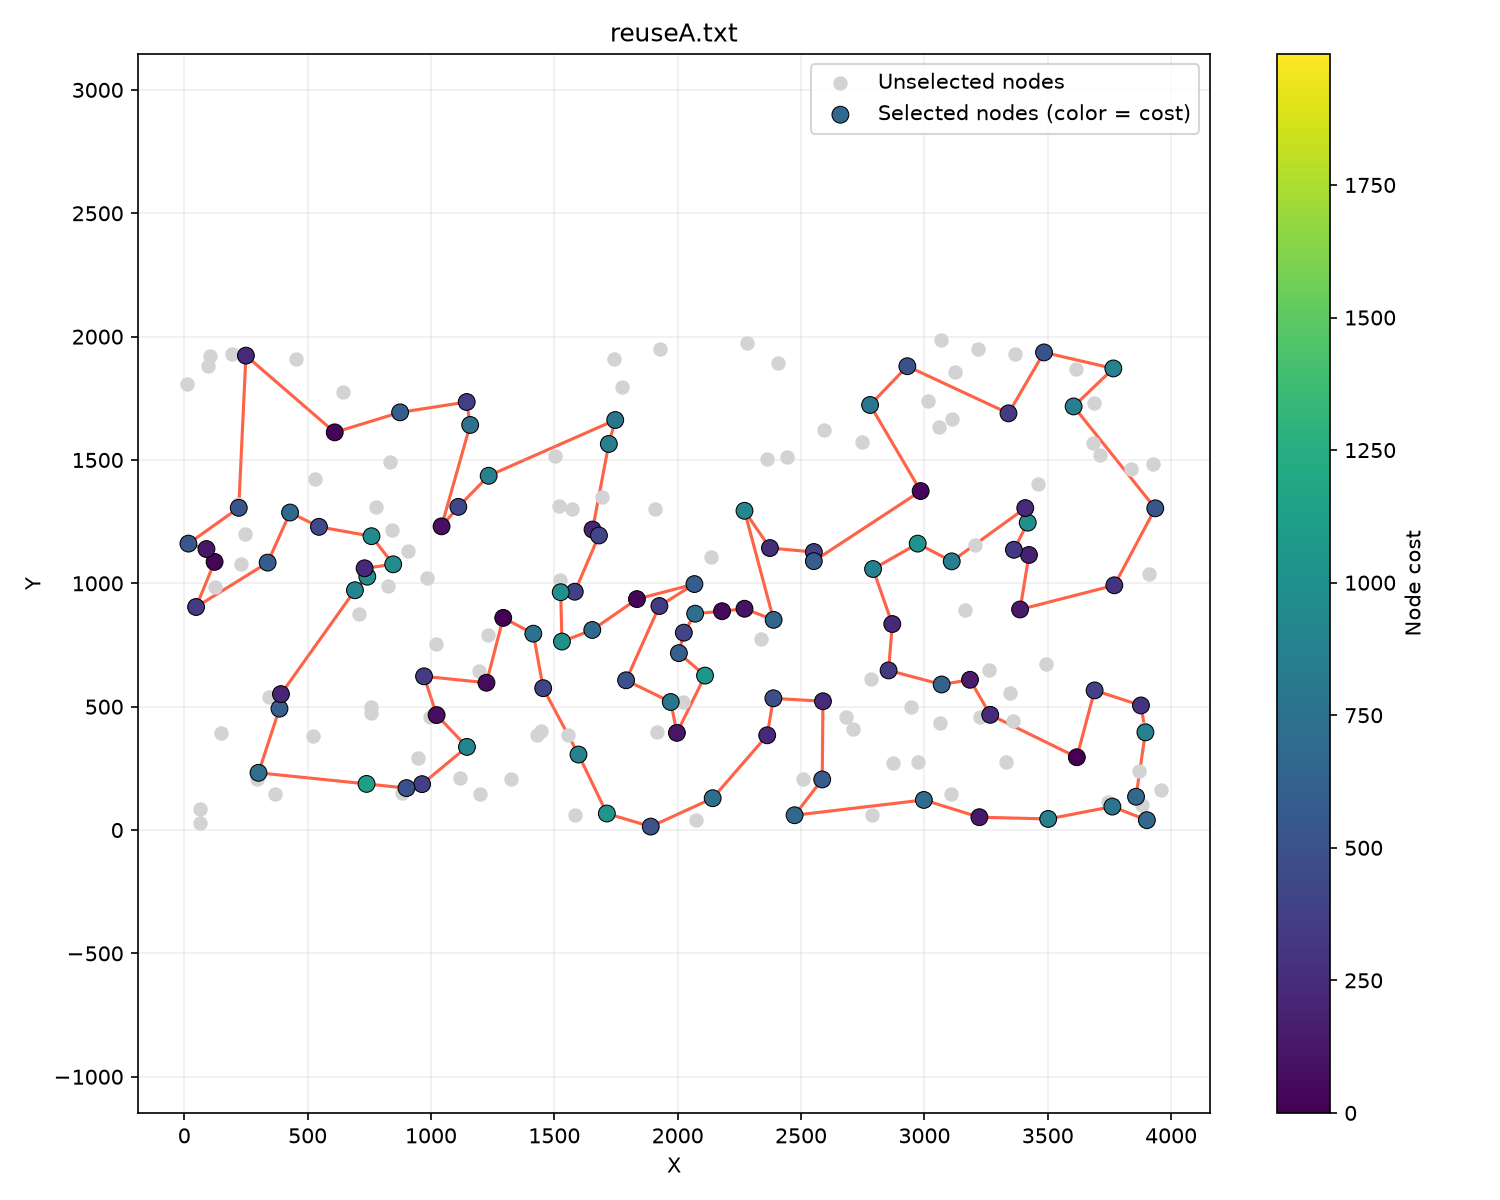
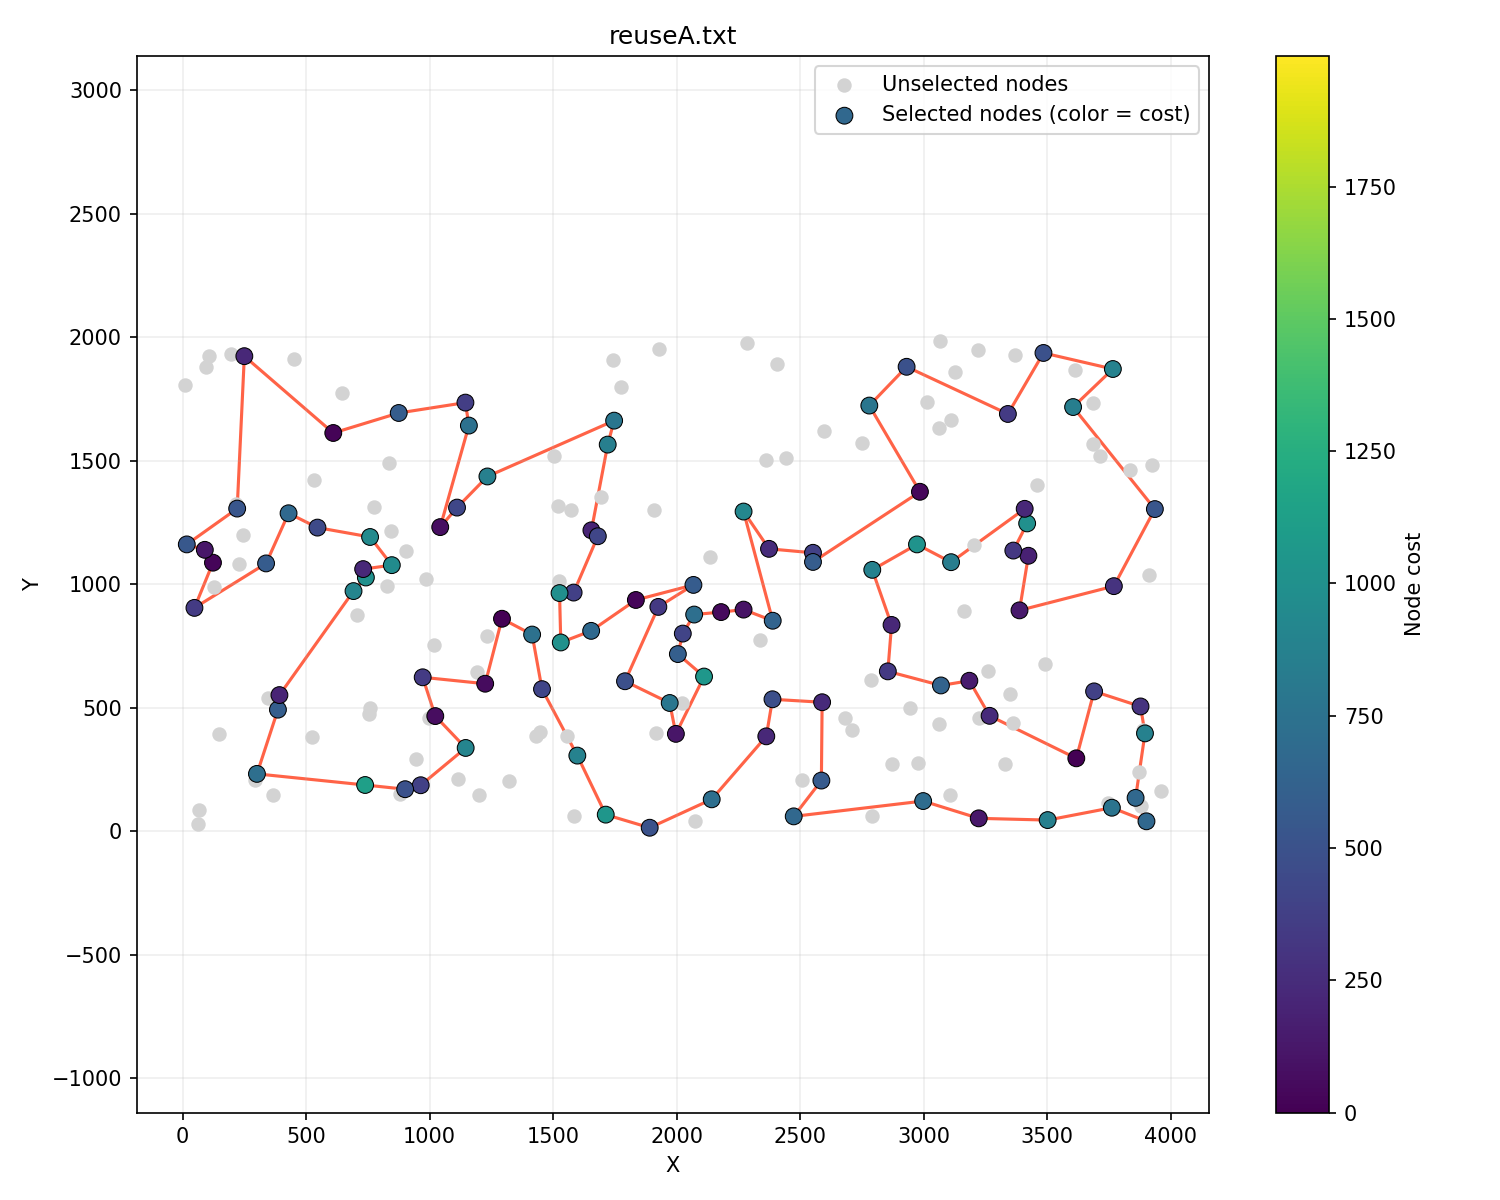
Fix 5_reuse, start 6

diff --git a/6_MSLS_ILS/main.cpp b/6_MSLS_ILS/main.cpp
@@ -1,0 +1,262 @@
+#include "../common/utils.h"
+
+// refer to slide 114 of the presentation
+int32_t edgeSwapDelta(std::vector<std::vector<int32_t>>& matrix, std::vector<int32_t>& sol, size_t i, size_t j, size_t k, size_t l) {
+	int32_t delta = 0;
+	// i -> j, k -> l turns into i -> k, j -> l
+	delta -= matrix[i][j];
+	delta -= matrix[k][l];
+	delta += matrix[i][k];
+	delta += matrix[j][l];
+	return delta;
+}
+
+int32_t interNodeSwapDelta(std::vector<std::vector<int32_t>>& matrix, std::vector<int32_t>& sol, std::vector<Node>& nodes, std::array<int32_t, 200>& solLookup, int32_t _i, int32_t j) {
+	int32_t delta = 0;
+	delta -= nodes[_i].cost;
+	delta += nodes[j].cost;
+
+	// converting global matrix idx into sol's idx
+	int32_t i = solLookup[_i];
+
+	// too many weird edge cases so i'm calculating the indices this way instead of explicit formulas in a thousand elseif blocks
+	int32_t beforeI = (i == 0) ? sol.size() - 1 : i - 1;
+	int32_t afterI = (i == sol.size() - 1) ? 0 : i + 1;
+	int32_t x = sol[i];
+	delta -= matrix[sol[beforeI]][x];
+	delta -= matrix[x][sol[afterI]];
+	delta += matrix[sol[beforeI]][j];
+	delta += matrix[j][sol[afterI]];
+	return delta;
+}
+
+struct Move {
+	bool isEdge;
+	// if edge then all 4 indices are just i, j, k, l
+	// if node then i = original node, j = new node, k = original predecessor, l = original successor (if neighbours change then delta can become outdated)
+	std::array<int32_t, 4> swap{};
+	int32_t delta;
+
+	bool operator<(const Move& m) const {
+		return delta > m.delta;
+	}
+
+	Move(std::vector<std::vector<int32_t>>& matrix, std::vector<int32_t>& sol, std::vector<Node>& nodes, std::array<int32_t, 200>& solLookup, int32_t i, int32_t j) {
+		int32_t iIdx = solLookup[i];
+		int32_t beforeI = (iIdx == 0) ? sol.size() - 1 : iIdx - 1;
+		int32_t afterI = (iIdx == sol.size() - 1) ? 0 : iIdx + 1;
+		swap = {i, j, sol[beforeI], sol[afterI]};
+		delta = interNodeSwapDelta(matrix, sol, nodes, solLookup, i, j);
+		isEdge = false;
+	}
+
+	Move(std::vector<std::vector<int32_t>>& matrix, std::vector<int32_t>& sol, int32_t i, int32_t j, int32_t k, int32_t l) {
+		swap = { i, j, k, l };
+		delta = edgeSwapDelta(matrix, sol, i, j, k, l);
+		isEdge = true;
+	}
+};
+
+// 1 if original, -1 if reversed, 0 if non-existent
+int32_t edgeState(std::vector<int32_t>& sol, std::array<int32_t, 200>& solLookup, int32_t i, int32_t j) {
+	int32_t idxI = solLookup[i];
+	int32_t idxJ = solLookup[j];
+	if (idxI == -1 || idxJ == -1) return 0;
+	int32_t afterI = (idxI == sol.size() - 1) ? 0 : idxI + 1;
+	int32_t afterJ = (idxJ == sol.size() - 1) ? 0 : idxJ + 1;
+	if (idxJ == afterI) return 1;
+	if (idxI == afterJ) return -1;
+	return 0;
+}
+
+void reverseWithCycle(std::vector<int32_t>& sol, std::array<int32_t, 200>& solLookup, int32_t start, int32_t end) {
+	int32_t len = (end - start + sol.size()) % sol.size() + 1;
+
+	for (int32_t i = 0; i < len / 2; i++) {
+		int32_t a = (start + i) % sol.size();
+		int32_t b = (start + len - 1 - i) % sol.size();
+
+		std::swap(sol[a], sol[b]);
+		solLookup[sol[a]] = a;
+		solLookup[sol[b]] = b;
+	}
+}
+
+std::vector<int32_t> localSearch(std::vector<std::vector<int32_t>>& matrix, std::vector<Node>& nodes, std::vector<int32_t>& startingSol) {
+	std::vector<int32_t> sol = startingSol;
+	std::array<int32_t, 200> solLookup;
+	solLookup.fill(-1);
+	for (size_t i = 0; i < sol.size(); i++) {
+		solLookup[sol[i]] = i;
+	}
+
+	std::priority_queue<Move> movePool;
+	// node swaps
+	for (size_t i = 0; i < sol.size(); i++) {
+		for (size_t j = 0; j < matrix.size(); j++) {
+			if (solLookup[j] != -1) continue;
+			Move m(matrix, sol, nodes, solLookup, sol[i], j);
+			if (m.delta < 0) movePool.emplace(m);
+		}
+	}
+
+	// edge swaps
+	for (size_t i = 0; i < sol.size(); i++) {
+		size_t j = (i == sol.size() - 1) ? 0 : i + 1;
+		for (size_t k = i + 2; k < sol.size(); k++) {
+			size_t l = (k == sol.size() - 1) ? 0 : k + 1;
+			if (i == 0 && l == 0) continue;
+			Move m(matrix, sol, sol[i], sol[j], sol[k], sol[l]);
+			if (m.delta < 0) movePool.emplace(m);
+		}
+	}
+	
+	// actual search
+	std::vector<Move> reservePool;
+	int32_t iterCnt = 0;
+	while (true) {
+		iterCnt += 1;
+		bool foundUsable = false;
+		while (!movePool.empty()) {
+			Move m = movePool.top();
+			auto [i, j, k, l] = m.swap;
+			if (!m.isEdge) {
+				// nodes missing in sol or j present
+				if (solLookup[i] == -1 || solLookup[j] != -1 || solLookup[k] == -1 || solLookup[l] == -1) {
+					movePool.pop();
+					continue;
+				}
+				// adjacent edges missing
+				int32_t beforeI = (solLookup[i] == 0) ? sol.size() - 1 : solLookup[i] - 1;
+				int32_t afterI = (solLookup[i] == sol.size() - 1) ? 0 : solLookup[i] + 1;
+				if (sol[beforeI] != k || sol[afterI] != l) {
+					movePool.pop();
+					continue;
+				}
+				// swag
+				sol[solLookup[i]] = j;
+				solLookup[j] = solLookup[i];
+				solLookup[i] = -1;
+				movePool.pop();
+				foundUsable = true;
+				break;
+			}
+			else {
+				int32_t state1 = edgeState(sol, solLookup, i, j);
+				int32_t state2 = edgeState(sol, solLookup, k, l);
+				// edges missing in sol
+				if (state1 == 0 || state2 == 0) { 
+					movePool.pop();
+					continue;
+				}
+				// one edge reversed one not
+				if (state1 != state2) { 
+					movePool.pop();
+					reservePool.emplace_back(m);
+					continue;
+				}
+				// swag
+				if (state1 == 1) {
+					reverseWithCycle(sol, solLookup, solLookup[j], solLookup[k]);
+				}
+				else {
+					reverseWithCycle(sol, solLookup, solLookup[k], solLookup[j]);
+				}
+				movePool.pop();
+				foundUsable = true;
+				break;
+			}
+		}
+		// if applied a move, re-insert previously invalid moves and start evaluating moves from the beginning of the pool again
+		if (foundUsable) {
+			for (Move& m : reservePool) {
+				movePool.emplace(m);
+			}
+			reservePool.clear();
+		}
+
+		// FULL RESET only if no usable moves found
+		if (!foundUsable) {
+			// unsure about this, could be an inefficiency but clearing this means i can use the pool being empty as a final condition for finishing if everything fails
+			// idk how else to check finality with this approach where priority queue accepts duplicates by default
+			reservePool.clear();
+
+			// node swaps
+			for (size_t i = 0; i < sol.size(); i++) {
+				for (size_t j = 0; j < matrix.size(); j++) {
+					if (solLookup[j] != -1) continue;
+					Move m(matrix, sol, nodes, solLookup, sol[i], j);
+					if (m.delta < 0) movePool.emplace(m);
+				}
+			}
+
+			// edge swaps
+			for (size_t i = 0; i < sol.size(); i++) {
+				size_t j = (i == sol.size() - 1) ? 0 : i + 1;
+				for (size_t k = i + 2; k < sol.size(); k++) {
+					size_t l = (k == sol.size() - 1) ? 0 : k + 1;
+					if (i == 0 && l == 0) continue;
+					Move m(matrix, sol, sol[i], sol[j], sol[k], sol[l]);
+					if (m.delta < 0) movePool.emplace(m);
+				}
+			}
+		}
+		// no more improving moves can be found
+		if (movePool.empty()) break;
+	}
+	return sol;
+}
+
+std::vector<int32_t> randomSolution(std::vector<std::vector<int32_t>>& matrix, std::vector<Node>& nodes, int32_t seed) {
+	int32_t resSize = (int32_t)std::ceil(matrix.size() / 2.0);
+	std::vector<int32_t> res(resSize);
+	std::vector<int32_t> remainingPool;
+	for (int32_t i = 0; i < resSize; i++) {
+		remainingPool.emplace_back(i);
+	}
+	std::mt19937 rng(seed);
+	for (int32_t i = 0; i < resSize; i++) {
+		std::uniform_int_distribution<int32_t> dist(0, remainingPool.size() - 1);
+		int32_t randomIdx = dist(rng);
+		res[i] = remainingPool[randomIdx];
+		remainingPool[randomIdx] = remainingPool[remainingPool.size() - 1];
+		remainingPool.pop_back();
+	}
+	return res;
+}
+
+// perturbation idea: 2-4 random moves
+
+std::vector<int32_t> MSLS(std::vector<std::vector<int32_t>>& matrix, std::vector<Node>& nodes, int32_t startingNode, subalgo subalgo) {
+	const size_t ITER_CNT = 400;
+	std::vector<int32_t> bestSol;
+	int32_t bestScore = INT32_MAX;
+	for (size_t i = 0; i < ITER_CNT; i++) {
+		std::vector<int32_t> temp = randomSolution(matrix, nodes, i);
+		temp = localSearch(matrix, nodes, temp);
+		int32_t score = totalCost(temp, nodes) + totalDist(temp, matrix);
+		if (score < bestScore) {
+			bestScore = score;
+			bestSol = temp;
+		}
+	}
+	return bestSol;
+}
+
+std::vector<int32_t> ILS(std::vector<std::vector<int32_t>>& matrix, std::vector<Node>& nodes, int32_t startingNode, subalgo subalgo) {
+
+}
+
+
+int main() {
+	std::vector<Node> nodes = getNodes(1);
+	std::vector<std::vector<int32_t>> distMatrix = getDistMatrix(nodes);
+	runTestCases(MSLS, distMatrix, nodes, "MSLSA", "MSLSA", 1);
+	//runTestCases(ILS, distMatrix, nodes, "ILSA", "ILSA", 1);
+	nodes = getNodes(2);
+	distMatrix = getDistMatrix(nodes);
+	runTestCases(MSLS, distMatrix, nodes, "MSLSB", "MSLSB", 1);
+	//runTestCases(ILS, distMatrix, nodes, "ILSB", "ILSB", 1);
+	std::cin.get();
+	return 0;
+}

diff --git a/5_reuse/main.cpp b/5_reuse/main.cpp
@@ -109,6 +109,8 @@ std::vector<int32_t> localSteepestEdges(std::vector<std::vector<int32_t>>& matri
 			if (i == 0 && l == 0) continue;
 			Move m(matrix, sol, sol[i], sol[j], sol[k], sol[l]);
 			if (m.delta < 0) movePool.emplace(m);
+			m = Move(matrix, sol, sol[j], sol[i], sol[k], sol[l]);
+			if (m.delta < 0) movePool.emplace(m);
 		}
 	}
 	
@@ -177,11 +179,11 @@ std::vector<int32_t> localSteepestEdges(std::vector<std::vector<int32_t>>& matri
 		}
 
 		// FULL RESET only if no usable moves found
+		int32_t invalidCnt = 0;
 		if (!foundUsable) {
 			// unsure about this, could be an inefficiency but clearing this means i can use the pool being empty as a final condition for finishing if everything fails
 			// idk how else to check finality with this approach where priority queue accepts duplicates by default
 			reservePool.clear();
-
 			// node swaps
 			for (size_t i = 0; i < sol.size(); i++) {
 				for (size_t j = 0; j < matrix.size(); j++) {
@@ -199,11 +201,16 @@ std::vector<int32_t> localSteepestEdges(std::vector<std::vector<int32_t>>& matri
 					if (i == 0 && l == 0) continue;
 					Move m(matrix, sol, sol[i], sol[j], sol[k], sol[l]);
 					if (m.delta < 0) movePool.emplace(m);
+					m = Move(matrix, sol, sol[j], sol[i], sol[k], sol[l]);
+					if (m.delta < 0) {
+						movePool.emplace(m);
+						invalidCnt++;
+					}
 				}
 			}
 		}
 		// no more improving moves can be found
-		if (movePool.empty()) break;
+		if (movePool.size() == invalidCnt && !foundUsable) break;
 	}
 	return sol;
 }

diff --git a/common/utils.cpp b/common/utils.cpp
@@ -87,7 +87,8 @@ void saveSolution(std::vector<int32_t> solution, std::string filename) {
 }
 
 void runTestCases(algo algo, std::vector<std::vector<int32_t>>& matrix, std::vector<Node>& nodes, std::string algoName, std::string filename, size_t threadCount, subalgo subalgo) {
-	std::vector<std::vector<int32_t>> solutions(200);
+	const size_t RUN_CNT = 200;
+	std::vector<std::vector<int32_t>> solutions(RUN_CNT);
 	std::cout << algoName <<"\n";
 	std::atomic<int32_t> currIdx(0);
 	std::vector<std::thread> threads;
@@ -97,8 +98,8 @@ void runTestCases(algo algo, std::vector<std::vector<int32_t>>& matrix, std::vec
 		threads.emplace_back([&]() {
 			while (true) {
 				int32_t curr = currIdx.fetch_add(1);
-				if (curr % 10 == 0) std::cout << curr << "\n";
-				if (curr >= 200) break;
+				if (curr % 20 == 0) std::cout << curr << "\n";
+				if (curr >= RUN_CNT) break;
 				solutions[curr] = algo(matrix, nodes, curr, subalgo);
 			}
 			});
@@ -111,9 +112,9 @@ void runTestCases(algo algo, std::vector<std::vector<int32_t>>& matrix, std::vec
 	std::chrono::duration<double> elapsed = end - start;
 	size_t bestSolIdx = 0;
 	int32_t bestObj = INT32_MAX;
-	std::vector<int32_t> scores(200);
+	std::vector<int32_t> scores(RUN_CNT);
 
-	for (size_t i = 0; i < 200; i++) {
+	for (size_t i = 0; i < RUN_CNT; i++) {
 		scores[i] = totalCost(solutions[i], nodes) + totalDist(solutions[i], matrix);
 		if (bestObj > scores[i]) {
 			bestSolIdx = i;

diff --git a/5_reuse/report.md b/5_reuse/report.md
@@ -155,28 +155,28 @@ return solution
 
 ### TSPA
 
-Max objective: 87957<br>
-Average objective: 76747<br>
-Min objective: 74358<br>
+Max objective: 78864<br>
+Average objective: 76420<br>
+Min objective: 74117<br>
 Elapsed: 1.35825 seconds
 
 ![](./results/reuseA.png)
 
 ```
-78 88 64 57 182 192 158 134 84 58 181 114 25 98 87 28 180 141 30 187 189 2 171 92 69 127 97 160 83 123 90 100 152 108 49 168 63 149 116 60 48 80 91 157 71 132 76 4 112 139 51 16 35 156 102 185 67 52 144 45 73 135 41 140 53 179 177 36 131 143 33 9 54 164 186 136 178 29 55 101 147 47 93 50 3 169 1 85 142 8 174 176 150 106 89 107 130 159 170 153
+55 101 147 47 130 159 107 153 193 78 88 64 57 151 42 89 106 150 174 176 72 134 84 58 158 192 181 114 135 73 45 98 87 141 30 187 2 171 69 127 97 168 63 149 116 60 31 48 80 91 157 71 4 76 132 38 152 108 49 160 83 123 100 90 180 28 102 185 35 51 16 67 144 52 179 53 140 41 99 131 36 177 33 143 62 9 54 8 142 164 85 93 50 3 169 1 59 178 29 17
 ```
 
 ### TSPB
 
-Max objective: 55660<br>
-Average objective: 52871<br>
-Min objective: 50862<br>
+Max objective: 54890<br>
+Average objective: 52486<br>
+Min objective: 50570<br>
 Elapsed: 1.29707 seconds
 
 ![](./results/reuseB.png)
 
 ```
-117 133 136 172 160 69 151 3 184 46 86 135 76 185 57 104 190 70 81 94 105 61 196 114 10 54 192 80 127 129 90 52 153 74 20 14 2 17 171 99 31 67 66 24 34 152 181 179 87 82 167 73 51 85 59 33 64 21 30 38 47 140 154 97 26 125 177 170 115 155 40 60 157 45 134 175 71 36 197 6 29 132 103 178 65 145 28 149 37 116 147 121 198 96 63 120 48 156 89 72
+78 54 192 80 127 129 90 153 20 14 118 110 93 2 74 17 171 99 31 67 66 11 24 34 152 181 179 87 82 51 85 59 73 167 98 151 117 120 133 136 172 160 69 21 30 38 47 140 154 97 155 71 40 60 45 134 175 62 36 197 132 29 6 170 177 125 26 158 145 28 149 116 147 50 130 121 198 96 48 156 89 57 79 86 72 46 184 3 135 76 185 104 190 70 81 94 105 196 114 10
 ```
 
 ## Scores
@@ -185,11 +185,11 @@ Time is the full execution time in seconds of 200 runs on a single thread.
 
 | Algo name          |          average TSPA (min - max) |   TSPA time |          average TSPB (min - max) |   TSPB time |
 | ------------------ | --------------------------------: | ----------: | --------------------------------: | ----------: |
-| Local search 5     |             90444 (85663 - 96792) |     1.97878 |             55955 (52900 - 59453) |     1.97842 |
-| Local search 10    |             81890 (77930 - 86959) |     2.67813 |             53767 (51171 - 56922) |     2.76157 |
-| Local search 20    |             77937 (75343 - 81108) |     4.20468 |             53305 (51171 - 56060) |     4.51270 |
-| Local search reuse |             76747 (74358 - 87957) | **1.35825** |             52871 (50862 - 55660) | **1.29707** |
-| Local search full  | **76344** (**73968** - **79004**) |     4.77540 | **52345** (**50554** - **54536**) |     4.95898 |
+| Local search 5     |    90444 (85663 - 96792) |     1.97878 |             55955 (52900 - 59453) |     1.97842 |
+| Local search 10    |    81890 (77930 - 86959) |     2.67813 |             53767 (51171 - 56922) |     2.76157 |
+| Local search 20    |    77937 (75343 - 81108) |     4.20468 |             53305 (51171 - 56060) |     4.51270 |
+| Local search reuse |    76420 (74117 - **78864**) | **1.35825** |             52486 (50570 - 54890) | **1.29707** |
+| Local search full  | **76344** (**73968** - 79004) |     4.77540 | **52345** (**50554** - **54536**) |     4.95898 |
 
 ## Conclusions
 
